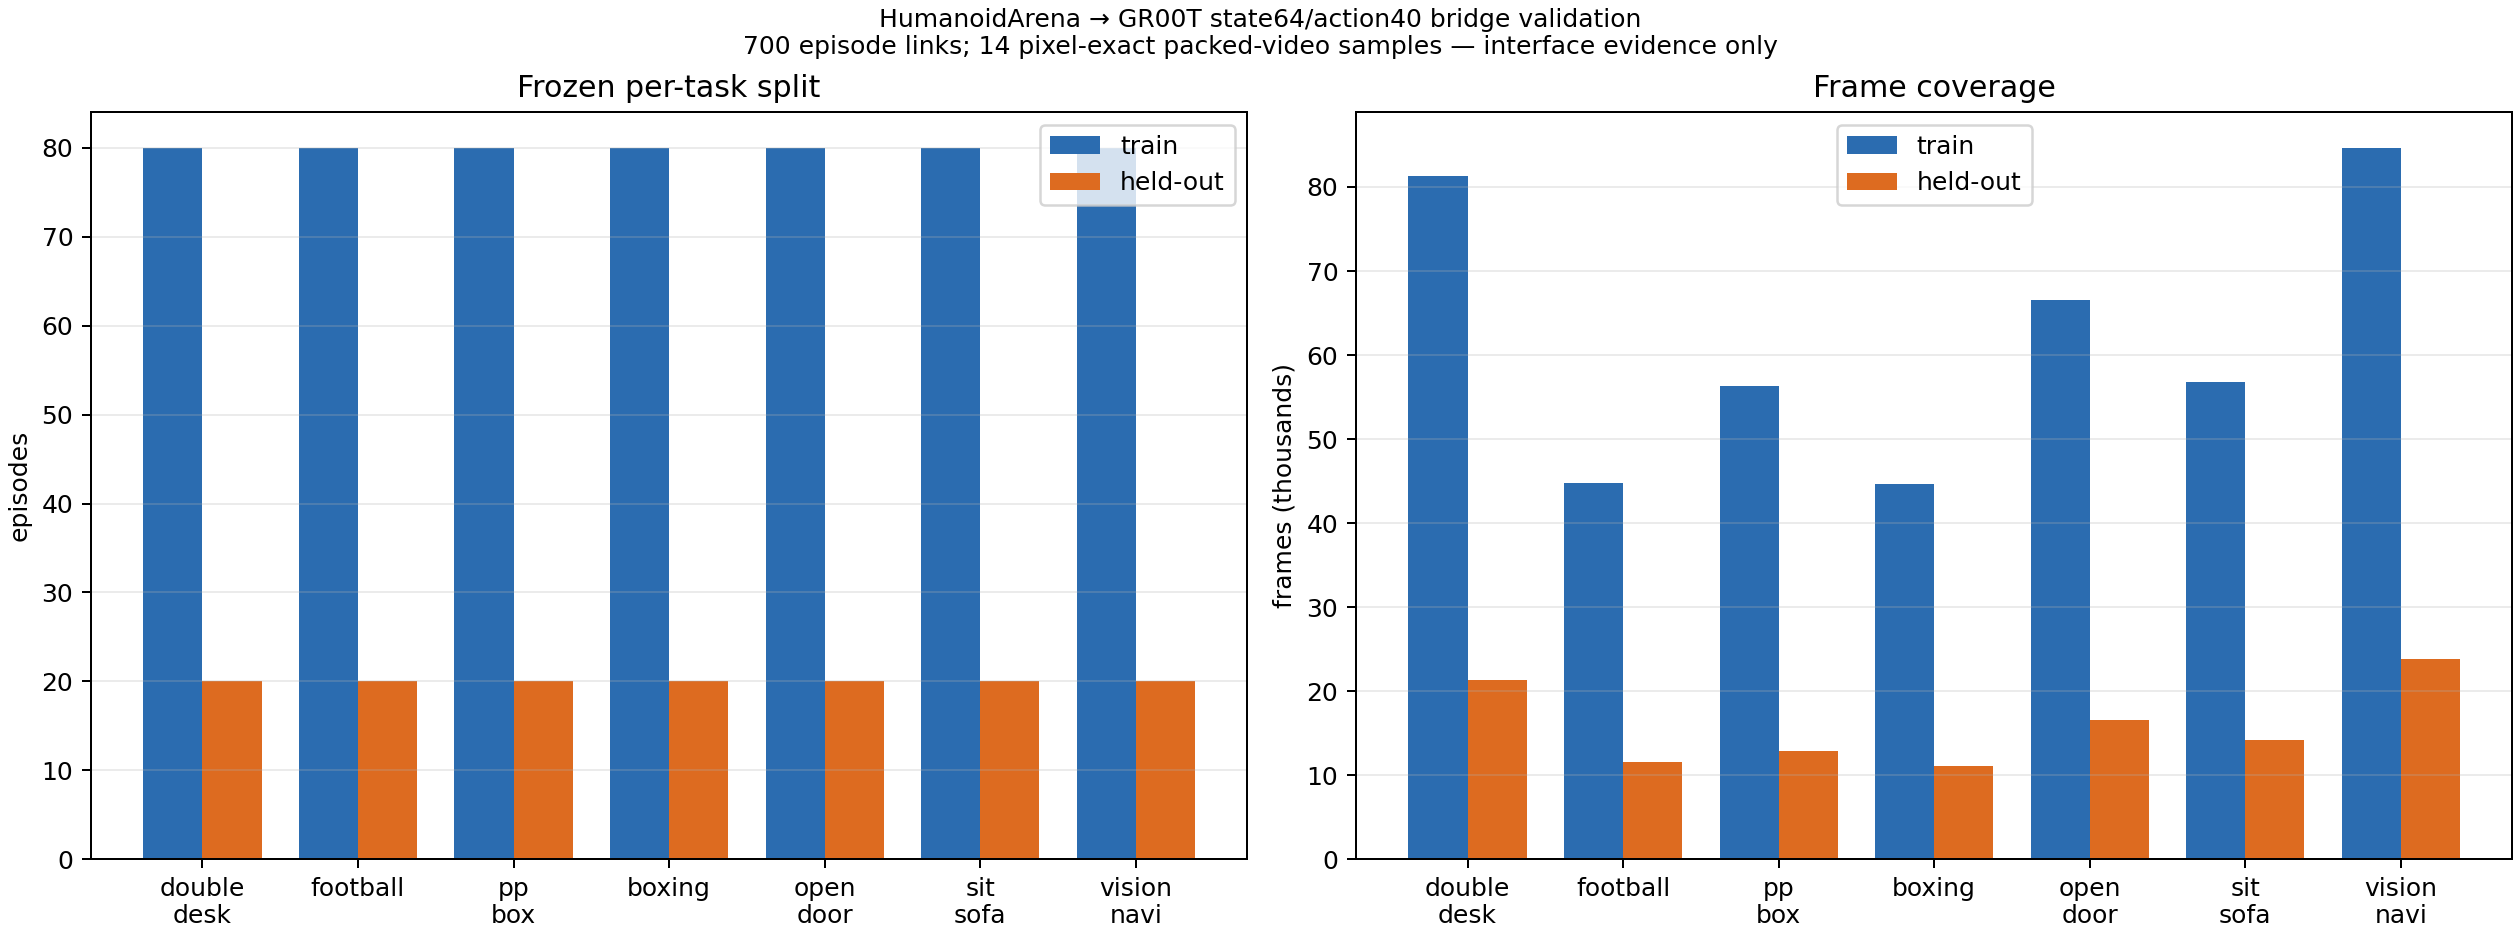
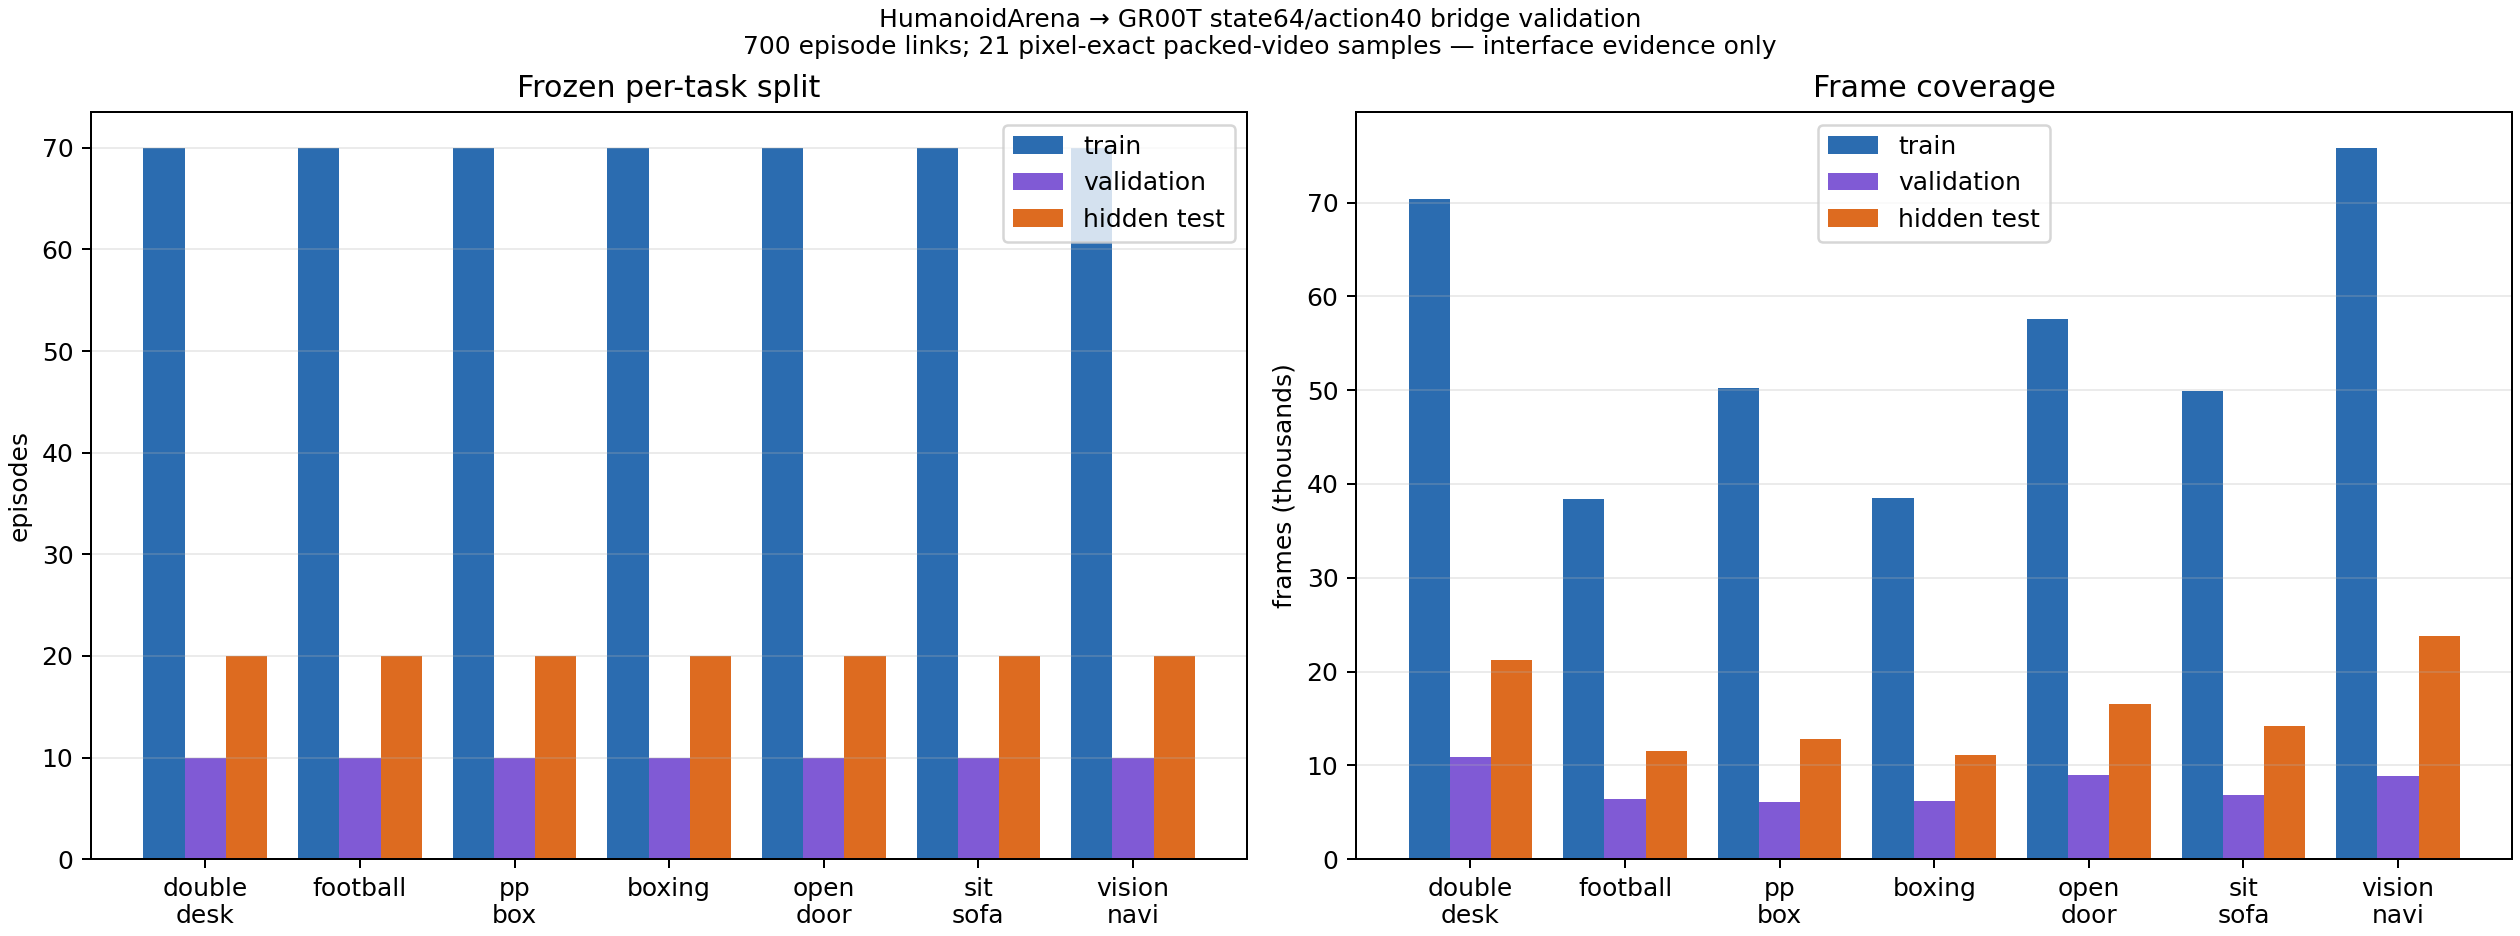
docs(benchmark): freeze three-way bridge evidence

diff --git a/BENCHMARK_STATUS.md b/BENCHMARK_STATUS.md
@@ -13,15 +13,15 @@ Last audited: **2026-09-15 (Asia/Bangkok)**.
 | Planner component | 5/5 algorithm variants, symbolic/Cosmos evaluation | Matched closed-loop rollout of the registered methods |
 | Recovery component | 6/6 mechanism variants, symbolic fault injection | Admitted simulator failures and end-to-end recovery rollout |
 | VLA retraining | 6/6 training seeds, 42 held-out trajectories × 5 conditions | Closed-loop task and recovery success; open-loop MSE is not SR/RSR |
-| External HumanoidArena | 3/84 formally complete cells; 62/1680 valid episode JSONs observed | Finish the locked PI0.5+SONIC matrix; treat OpenDoor separately until its upstream contract is fixed |
+| External HumanoidArena | 3/84 formally complete cells; 65/1680 valid episode JSONs observed | Finish the locked PI0.5+SONIC matrix; treat OpenDoor separately until its upstream contract is fixed |
 | Scenario admission | 0/9 scenarios | Immutable snapshot/injector/predicate evidence and independent oracle 20/20 per scenario |
-| Internal controlled matrix | 0/5 registered methods; HA state64/action40 dataset bridge passed on 700 episodes and the HTTP inference contract is implemented, common checkpoint/real-model server validation still pending | Train the shared bridge and run `gr00t_sonic`, `gr00t_st`, `gr00t_st_rt`, `gr00t_str`, and `gr00t_str_rt` on identical cells |
+| Internal controlled matrix | 0/5 registered methods; HA state64/action40 train/validation/hidden bridge passed on 700 episodes and the HTTP inference contract is implemented, common checkpoint/real-model server validation still pending | Train the shared bridge and run `gr00t_sonic`, `gr00t_st`, `gr00t_st_rt`, `gr00t_str`, and `gr00t_str_rt` on identical cells |
 
 The first interrupted external run completed `base_test/boxing/seed-0` and
 `seed-1`. It also left 11 valid atomic episode records for seed 2. The optimized
 resume completed the remaining nine records, formally closed the third cell,
 and entered `semantic/boxing` at 2026-09-15 06:02 UTC without reloading its
-task-shared policy server. At the last audit it had produced 62 valid episode
+task-shared policy server. At the last audit it had produced 65 valid episode
 records. This is explicitly `partial_non_claim` evidence, not a result table.
 The mutable machine progress file is authoritative after this tracked checkpoint.
 

diff --git a/docs/HUMANOIDARENA_GR00T_BRIDGE.md b/docs/HUMANOIDARENA_GR00T_BRIDGE.md
@@ -71,20 +71,19 @@ their original behavior.
 
 ## Current validation evidence
 
-The frozen view contains 560 training episodes (435,201 frames) and 140 held-out
-episodes (111,259 frames), exactly 80/20 inside each of the seven tasks. All 700
-source memberships match the manifest, all video paths are symlinks, 28 sampled
-low-dimensional endpoint rows reconstruct state64/action40 losslessly, and 14
-mid-episode frames spanning every task and both splits match direct packed-video
-decoding pixel-for-pixel. The view occupies 345,791,543 local bytes excluding
-the immutable source-video targets.
+The final frozen view contains 490 training episodes (380,927 frames), 70
+validation episodes (54,274 frames), and 140 hidden-test episodes (111,259
+frames): exactly 70/10/20 inside each of the seven tasks. The hidden membership
+is identical to the earlier frozen 80/20 view. Validation is the only split
+allowed for checkpoint or hyperparameter selection; hidden-test actions and
+outcomes must not be inspected until the configuration is locked.
 
-Before checkpoint training, the final view builder additionally freezes a 10%
-validation slice out of the original training membership. This produces 70
-train, 10 validation, and 20 hidden-test episodes per task while preserving the
-already frozen 20 hidden IDs exactly. Validation is the only split allowed for
-checkpoint or hyperparameter selection; hidden-test actions and outcomes must
-not be inspected until the configuration is locked.
+All 700 source memberships match the manifest, all video paths are symlinks, 42
+sampled low-dimensional endpoint rows reconstruct state64/action40 losslessly,
+and 21 mid-episode frames spanning every task and every split match direct
+packed-video decoding pixel-for-pixel. The view occupies 345,817,703 local
+bytes excluding the immutable source-video targets. Its manifest SHA-256 is
[1 lines of base64/hex data omitted]
 
 See the [machine-readable validation report](../results/humanoidarena/gr00t-bridge/validation.json)
 and [dataset split plot](../results/humanoidarena/gr00t-bridge/dataset_split.png).

diff --git a/docs/LOCAL_STORAGE_CLEANUP.md b/docs/LOCAL_STORAGE_CLEANUP.md
@@ -37,6 +37,13 @@ Deleted from `_artifacts/retraining`:
 Approximately **202 GiB** was reclaimed. Free filesystem space increased from
 about 189 GiB to about 391 GiB.
 
+After the three-way HumanoidArena split passed membership, pixel, and
+state/action round-trip validation, the superseded 335 MiB two-way derived view
+was removed and the validated 70/10/20 view took its canonical path. The
+immutable source dataset remains local and at the locked Hugging Face revision;
+the builder, final manifest hash, validation JSON, and plot are tracked, so the
+deleted derived view is reproducible and is not claim evidence.
+
 ## Explicitly retained
 
 - `_artifacts/retraining/.../checkpoint-300` for the selected ST-RT and STR-RT
